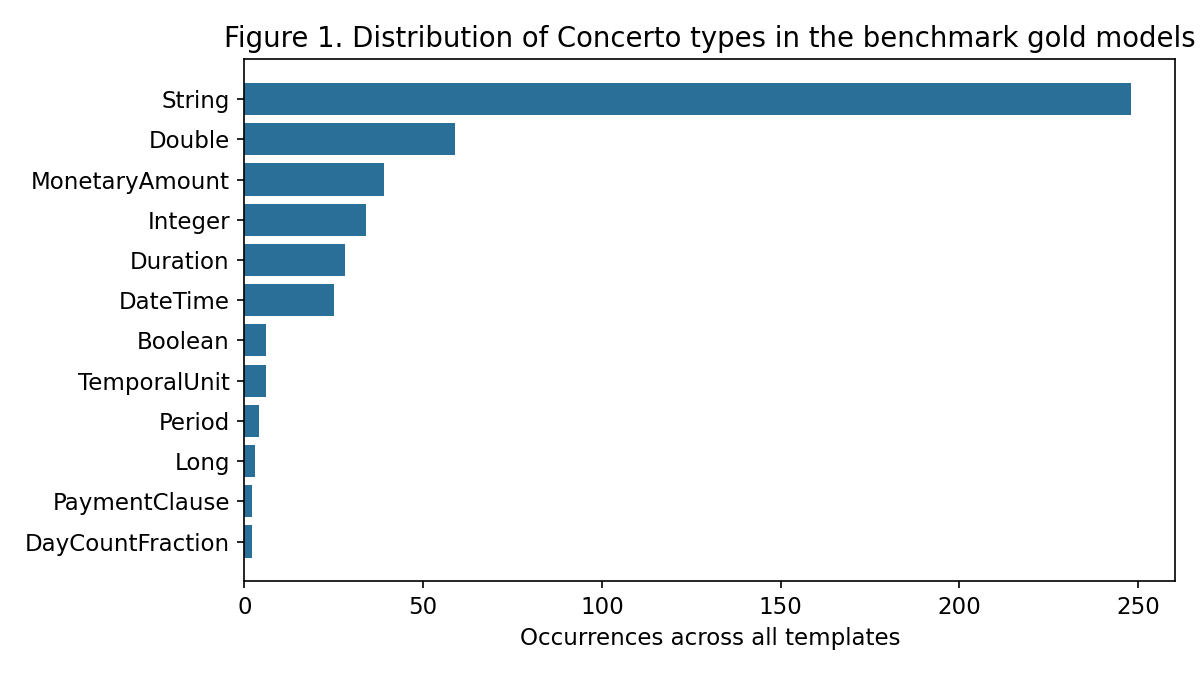
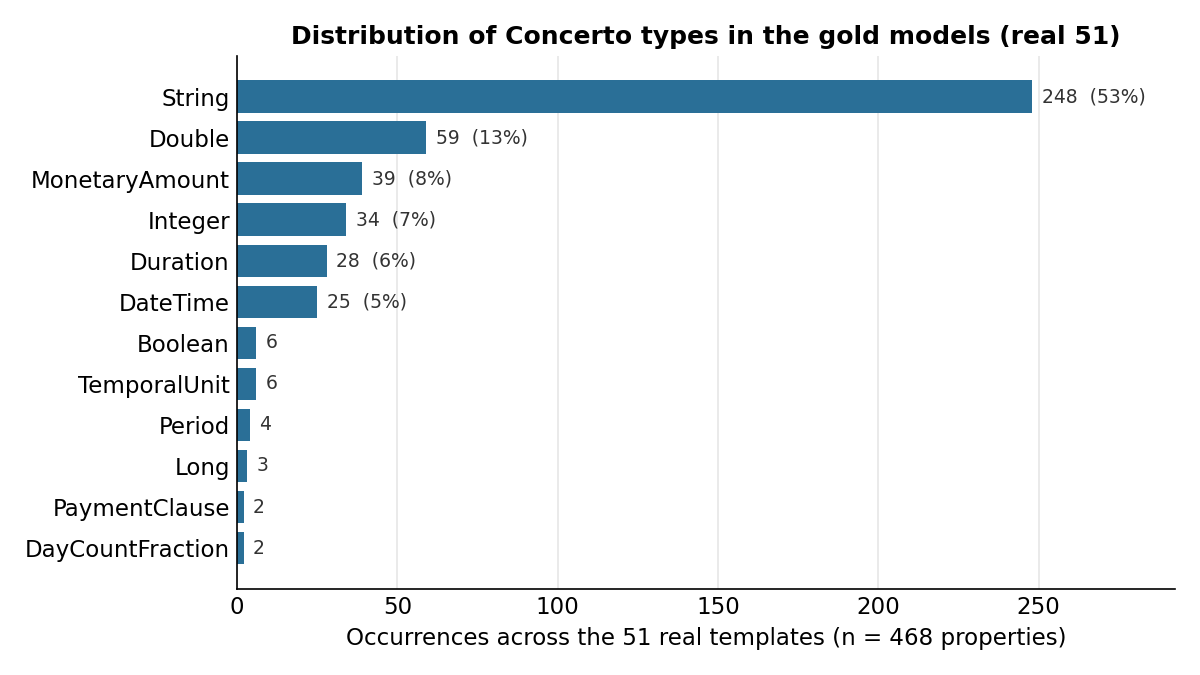
Fix EDA figures: report on real 51, not blended 140
make_figures.py read data/ (140 templates after the synthetic expansion)
Now reads data_baseline_51/.

Changed region(s): [[0.0308, 0.0311, 1.0, 0.9022], [0.2775, 0.84, 0.8942, 0.9644], [0.925, 0.84, 0.9867, 0.9022]]

diff --git a/scripts/make_figures.py b/scripts/make_figures.py
@@ -2,11 +2,12 @@
 # EDA of the benchmark dataset + publication-quality result charts for the dissertation draft.
 # Outputs PNGs to figures/ and prints summary stats.
 
-import json, os
+import json, os, statistics, textwrap
 from collections import Counter
 import matplotlib
 matplotlib.use("Agg")
 import matplotlib.pyplot as plt
+from domains import domain_of, DOMAIN_ORDER
 
 os.makedirs("figures", exist_ok=True)
 plt.rcParams.update({"figure.dpi": 150, "font.size": 11, "axes.spysine.top": False} if False else {"figure.dpi": 150, "font.size": 11})
@@ -19,63 +20,109 @@ def load(p):
 
 
 # ---------- EDA on the dataset ----------
-gen = load("data/model_generation.json")
+# NOTE: headline EDA is reported on the REAL 51 templates, so this reads the frozen
+# pre-expansion baseline. Reading data/ here silently blends in the 89 synthetic
+# templates and contradicts these figures' own captions (dissertation section 3.3).
+gen = load("data_baseline_51/model_generation.json")
 var_counts = {q["id"].replace("-modelgen-01", ""): len(q["expected_output"]) for q in gen}
 all_types = Counter(t for q in gen for t in q["expected_output"].values())
 n_templates = len(gen)
 total_vars = sum(var_counts.values())
 counts = sorted(var_counts.values())
 mean_v = total_vars / n_templates
-median_v = counts[len(counts) // 2]
+median_v = statistics.median(counts)
+sd_v = statistics.stdev(counts)
 
-# thematic buckets (keyword heuristic) to show the supply/goods skew (Matt's concern)
-def bucket(name):
-    n = name.lower()
-    if any(k in n for k in ["latedelivery", "late-delivery", "delivery", "goods", "bill-of-lading",
-                            "acceptance", "fragile", "perishable", "supply", "demandforecast",
-                            "volumediscount", "car-rental", "rental"]):
-        return "Supply / goods / logistics"
-    if any(k in n for k in ["payment", "invoice", "pay", "interest", "promissory", "saft", "safte",
-                            "installment", "fixed-interest"]):
-        return "Payment / financial"
-    if any(k in n for k in ["information", "certificate", "signature", "company", "contact",
-                            "project", "copyright", "ip-", "docusign", "servicelevel", "sales-contract"]):
-        return "Corporate / informational / other"
-    return "Corporate / informational / other"
+# Legal-domain assignment comes from the shared taxonomy (scripts/domains.py) so that
+# Figure 3 (real-corpus skew) and Figure 4 (before-vs-after expansion) cannot disagree.
+# The previous keyword heuristic lived here, collapsed the library into three buckets,
+# and routed every synthetic template into "other" because its keywords were derived
+# from real Accord filenames.
+themes = Counter(domain_of(name) for name in var_counts)
 
-themes = Counter(bucket(name) for name in var_counts)
-
-print("=== DATASET EDA ===")
-print(f"templates: {n_templates}, total variables: {total_vars}")
-print(f"variables/template: mean {mean_v:.1f}, median {median_v}, min {counts[0]}, max {counts[-1]}")
+print("=== DATASET EDA (REAL 51) ===")
+print(f"templates: {n_templates}, total variables: {total_vars}, distinct types: {len(all_types)}")
+print(f"variables/template: mean {mean_v:.1f}, median {median_v:.0f}, SD {sd_v:.1f}, "
+      f"range {counts[0]}-{counts[-1]}")
+print(f"String: {all_types['String']} ({all_types['String']/total_vars:.0%})")
 print("top types:", all_types.most_common(10))
-print("themes:", dict(themes))
+for d in DOMAIN_ORDER:
+    if themes[d]:
+        print(f"  {themes[d]:3d} ({themes[d]/n_templates:4.0%})  {d}")
+
+
+def style(ax):
+    ax.spines[["top", "right"]].set_visible(False)
+    ax.set_axisbelow(True)
+    ax.tick_params(length=0)
 
 # Fig 1: Concerto type distribution
 top = all_types.most_common(12)
-plt.figure(figsize=(8, 4.5))
-plt.barh([t for t, _ in top][::-1], [c for _, c in top][::-1], color=ACCENT)
-plt.xlabel("Occurrences across all templates")
-plt.title("Figure 1. Distribution of Concerto types in the benchmark gold models")
-plt.tight_layout(); plt.savefig("figures/fig1_type_distribution.png"); plt.close()
+fig, ax = plt.subplots(figsize=(8, 4.5))
+tlabels = [t for t, _ in top][::-1]
+tvals = [c for _, c in top][::-1]
+bars = ax.barh(tlabels, tvals, color=ACCENT, zorder=2)
+ax.xaxis.grid(True, color="#e6e6e6", linewidth=0.8, zorder=0)
+for b, v in zip(bars, tvals):
+    ax.text(v + max(tvals) * 0.012, b.get_y() + b.get_height() / 2,
+            f"{v}  ({v/total_vars:.0%})" if v / total_vars >= 0.05 else str(v),
+            va="center", fontsize=9, color="#333")
+ax.set_xlim(0, max(tvals) * 1.18)
+ax.set_xlabel(f"Occurrences across the 51 real templates (n = {total_vars} properties)")
+ax.set_title("Distribution of Concerto types in the gold models (real 51)",
+             fontweight="bold", fontsize=12)
+style(ax)
+fig.tight_layout(); fig.savefig("figures/fig1_type_distribution.png"); plt.close(fig)
 
 # Fig 2: variables-per-template histogram
-plt.figure(figsize=(7, 4))
-plt.hist(counts, bins=range(0, max(counts) + 3, 2), color=ACCENT, edgecolor="white")
-plt.xlabel("Variables per template"); plt.ylabel("Number of templates")
-plt.title("Figure 2. Template complexity (variables per template)")
-plt.tight_layout(); plt.savefig("figures/fig2_variable_counts.png"); plt.close()
+fig, ax = plt.subplots(figsize=(7.5, 4))
+ax.hist(counts, bins=range(0, max(counts) + 3, 2), color=ACCENT, edgecolor="white", zorder=2)
+ax.yaxis.grid(True, color="#e6e6e6", linewidth=0.8, zorder=0)
+ax.axvline(mean_v, color="#c1121f", linestyle="--", linewidth=1.4, zorder=3)
+ax.text(mean_v + 1.0, ax.get_ylim()[1] * 0.88,
+        f"mean {mean_v:.1f}\nmedian {median_v:.0f}", fontsize=9, color="#c1121f")
+ax.set_xlabel("Variables per template")
+ax.set_ylabel("Number of templates")
+ax.set_title(f"Template complexity, real 51 (SD {sd_v:.1f}, range {counts[0]}–{counts[-1]})",
+             fontweight="bold", fontsize=12)
+style(ax)
+fig.tight_layout(); fig.savefig("figures/fig2_variable_counts.png"); plt.close(fig)
 
-# Fig 3: thematic distribution (skew)
-th = themes.most_common()
-plt.figure(figsize=(7, 4))
-plt.bar([t for t, _ in th], [c for _, c in th], color=[ACCENT, ACCENT2, "#8d99ae"])
-plt.ylabel("Number of templates")
-plt.title("Figure 3. Thematic skew of the template library")
-plt.xticks(rotation=12, ha="right", fontsize=9)
-plt.tight_layout(); plt.savefig("figures/fig3_theme_skew.png"); plt.close()
+# Fig 3: legal-domain coverage of the real corpus, including the EMPTY domains.
+# Zero-height bars are deliberate: the absent domains are the finding.
+dvals = [themes[d] for d in DOMAIN_ORDER]
+cols = [ACCENT if v else "#d9d9d9" for v in dvals]
+n_absent = sum(1 for v in dvals if not v)
+fig, ax = plt.subplots(figsize=(10, 5.0))
+bars = ax.bar(range(len(DOMAIN_ORDER)), dvals, color=cols, width=0.66, zorder=2)
+ax.yaxis.grid(True, color="#e6e6e6", linewidth=0.8, zorder=0)
+for b, v in zip(bars, dvals):
+    ax.text(b.get_x() + b.get_width() / 2, v + 0.4,
+            f"{v}\n({v/n_templates:.0%})" if v else "0",
+            ha="center", fontsize=9, color="#333" if v else "#999")
+ax.set_xticks(range(len(DOMAIN_ORDER)))
+ax.set_xticklabels([textwrap.fill(d, 16) for d in DOMAIN_ORDER],
+                   fontsize=8, rotation=30, ha="right", rotation_mode="anchor")
+ax.set_ylabel("Number of templates")
+ax.set_ylim(0, max(dvals) * 1.26)
+sup_pay = (themes["Supply / goods / logistics"] + themes["Payment & financial"]) / n_templates
+ax.set_title(f"Thematic skew of the real template library\n"
+             f"supply + payment = {sup_pay:.0%} of the corpus; {n_absent} domains absent entirely",
+             fontweight="bold", fontsize=11.5)
+style(ax)
+fig.tight_layout(); fig.savefig("figures/fig3_theme_skew.png"); plt.close(fig)
 
-# ---------- Results charts ----------
+# ---------- Legacy single-model results charts ----------
+# These predate the multi-model benchmark and are SUPERSEDED by make_comparison_figures.py
+# (figures/comp*.png), which is what the dissertation uses. They read the old flat
+# results/ layout, which no longer exists now that results are split per model into
+# results/{gemini,claude,gpt}/. Kept for provenance; skipped when the old files are absent
+# so that this script still reproduces Figures 1-3 cleanly.
+if not os.path.exists("results/classification_results.json"):
+    print("\nSaved Figures 1-3 (EDA, real 51) to figures/")
+    print("Legacy single-model charts skipped: superseded by make_comparison_figures.py")
+    raise SystemExit(0)
+
 cls = load("results/classification_results.json")["accuracy"]
 ext = load("results/variable_extraction_results.json")["field_accuracy"]
 tym = load("results/type_mapping_results.json")["type_accuracy"]

diff --git a/scripts/domains.py b/scripts/domains.py
@@ -1,0 +1,151 @@
+# domains.py
+# One source of truth for "which legal domain does each template belong to".
+#
+# This replaces the keyword heuristic that previously lived inside make_figures.py.
+# That heuristic (a) collapsed the library into only three buckets, and (b) silently
+# routed every synthetic template into "Corporate / other" because its keywords were
+# derived from real Accord filenames. Both figures that report domain coverage
+# (Figure 3, the real-corpus skew; Figure 4, before-vs-after expansion) now import
+# from here, so the two cannot disagree.
+#
+# Assignments are explicit rather than inferred: 51 rows, each auditable against the
+# template's own clause text. Listed in Appendix A of the dissertation.
+
+DOMAIN_ORDER = [
+    "Supply / goods / logistics",
+    "Payment & financial",
+    "Real estate & leasing",
+    "Employment & HR",
+    "IP & licensing",
+    "Services & consulting",
+    "Data protection & privacy",
+    "Confidentiality & NDA",
+    "Dispute, liability & risk",
+    "Corporate & other",
+]
+
+# --- the 51 real Accord templates -------------------------------------------------
+REAL_DOMAINS = {
+    # Supply / goods / logistics (20)
+    "acceptance-of-delivery": "Supply / goods / logistics",
+    "bill-of-lading": "Supply / goods / logistics",
+    "demandforecast": "Supply / goods / logistics",
+    "fragile-goods": "Supply / goods / logistics",
+    "latedeliveryandpenalty": "Supply / goods / logistics",
+    "latedeliveryandpenalty-currency-conversion": "Supply / goods / logistics",
+    "latedeliveryandpenalty-else": "Supply / goods / logistics",
+    "latedeliveryandpenalty-optional": "Supply / goods / logistics",
+    "latedeliveryandpenalty-optional-this": "Supply / goods / logistics",
+    "minilatedeliveryandpenalty": "Supply / goods / logistics",
+    "minilatedeliveryandpenalty-capped": "Supply / goods / logistics",
+    "minilatedeliveryandpenalty-payment": "Supply / goods / logistics",
+    "perishable-goods": "Supply / goods / logistics",
+    "simplelatedeliveryandpenalty": "Supply / goods / logistics",
+    "supply-agreement-loc": "Supply / goods / logistics",
+    "supplyagreement": "Supply / goods / logistics",
+    "supplyagreement-perishable-goods": "Supply / goods / logistics",
+    "volumediscount": "Supply / goods / logistics",
+    "volumediscountolist": "Supply / goods / logistics",
+    "volumediscountulist": "Supply / goods / logistics",
+
+    # Payment & financial (19)
+    "docusign-po-failure": "Payment & financial",
+    "fixed-interests": "Payment & financial",
+    "fixed-interests-static": "Payment & financial",
+    "full-payment-upon-demand": "Payment & financial",
+    "full-payment-upon-signature": "Payment & financial",
+    "installment-sale": "Payment & financial",
+    "interest-rate-swap": "Payment & financial",
+    "ip-payment": "Payment & financial",
+    "lateinvoicewithpayment": "Payment & financial",
+    "one-time-payment-tr": "Payment & financial",
+    "online-payment-contract-tr": "Payment & financial",
+    "payment-upon-delivery": "Payment & financial",
+    "payment-upon-iot": "Payment & financial",
+    "payment-upon-signature": "Payment & financial",
+    "promissory-note": "Payment & financial",
+    "promissory-note-md": "Payment & financial",
+    "saft": "Payment & financial",
+    "safte": "Payment & financial",
+    "sales-contract-ru": "Payment & financial",
+
+    # Real estate & leasing (4)
+    "car-rental-tr": "Real estate & leasing",
+    "rental-deposit": "Real estate & leasing",
+    "rental-deposit-with": "Real estate & leasing",
+    "roommate": "Real estate & leasing",
+
+    # IP & licensing (1)
+    "copyright-license": "IP & licensing",
+
+    # Services & consulting (1)
+    "servicelevelagreement": "Services & consulting",
+
+    # Corporate & other (6)
+    "certificate-of-incorporation": "Corporate & other",
+    "company-information": "Corporate & other",
+    "contact-information": "Corporate & other",
+    "docusign-connect": "Corporate & other",
+    "project-information": "Corporate & other",
+    "signature-block-title-name-date": "Corporate & other",
+}
+
+# --- synthetic templates ----------------------------------------------------------
+# Synthetic names are generated from the CATEGORIES keys in generate_synthetic_templates.py
+# (e.g. "employment-offer-01"), so they map by category prefix rather than by exact name.
+SYNTHETIC_PREFIX_DOMAINS = {
+    "employment-offer": "Employment & HR",
+    "non-compete": "Employment & HR",
+    "severance-agreement": "Employment & HR",
+    "employment-termination": "Employment & HR",
+    "nda-mutual": "Confidentiality & NDA",
+    "nda-oneway": "Confidentiality & NDA",
+    "confidentiality-clause": "Confidentiality & NDA",
+    "software-license": "IP & licensing",
+    "trademark-license": "IP & licensing",
+    "ip-assignment": "IP & licensing",
+    "patent-license": "IP & licensing",
+    "content-licensing": "IP & licensing",
+    "data-processing-agreement": "Data protection & privacy",
+    "gdpr-privacy-clause": "Data protection & privacy",
+    "data-breach-notification": "Data protection & privacy",
+    "commercial-lease": "Real estate & leasing",
+    "residential-lease": "Real estate & leasing",
+    "sublease-agreement": "Real estate & leasing",
+    "property-purchase": "Real estate & leasing",
+    "consulting-agreement": "Services & consulting",
+    "statement-of-work": "Services & consulting",
+    "service-retainer": "Services & consulting",
+    "maintenance-agreement": "Services & consulting",
+    "limitation-of-liability": "Dispute, liability & risk",
+    "indemnification-clause": "Dispute, liability & risk",
+    "arbitration-clause": "Dispute, liability & risk",
+    "warranty-clause": "Dispute, liability & risk",
+    "loan-agreement": "Payment & financial",
+    "personal-guarantee": "Payment & financial",
+    "insurance-clause": "Payment & financial",
+    "shareholder-agreement": "Corporate & other",
+    "distribution-agreement": "Corporate & other",
+    "advertising-agreement": "Corporate & other",
+    "franchise-fee": "Corporate & other",
+}
+
+
+def domain_of(name):
+    """Legal domain for a template name (real or synthetic). None if unrecognised."""
+    if name in REAL_DOMAINS:
+        return REAL_DOMAINS[name]
+    for prefix, dom in sorted(SYNTHETIC_PREFIX_DOMAINS.items(), key=lambda kv: -len(kv[0])):
+        if name.startswith(prefix):
+            return dom
+    return None
+
+
+if __name__ == "__main__":
+    from collections import Counter
+    c = Counter(REAL_DOMAINS.values())
+    n = len(REAL_DOMAINS)
+    print(f"{n} real templates across {len(c)} domains")
+    for d in DOMAIN_ORDER:
+        if c[d]:
+            print(f"  {c[d]:3d}  ({c[d]/n:4.0%})  {d}")
